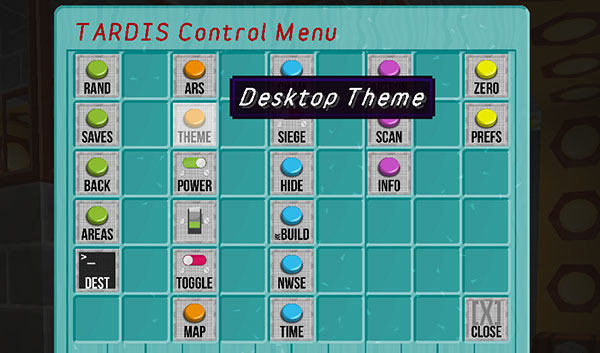
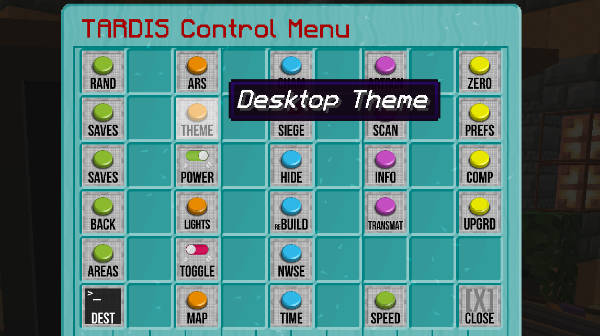
Previews - resource packs and desktop themes

diff --git a/sidebars.ts b/sidebars.ts
@@ -535,6 +535,7 @@ const sidebars: SidebarsConfig = {
         'rooms-and-economies',
         'time-vortex',
         'wiki-sign',
+        'debug-preview',
         'prune',
         'api',
         'update-blocks',

diff --git a/docs/debug-preview.md b/docs/debug-preview.md
@@ -1,0 +1,54 @@
+---
+layout: default
+title: Resource pack debug preview
+---
+
+# Resource pack debug preview
+
+The plugin adds many custom items, blocks, mobs and GUIs to the game. In order to view them in all their awesomeness it is recommended that the the [TARDIS Resource Pack](resource-packs) is used.
+
+The supplied resource pack is not to everyone's taste, so TARDIS community members create or modify it as they see fit.
+
+To aid in the process of creating new textures, the plugin has an area that displays all the TARDIS items in game.
+
+![Preview area](/images/docs/debug_preview.jpg)
+
+## Creating the preview area
+
+To create the preview area, use the command:
+
+```
+/tardisdev debug create
+```
+
+:::info
+
+The plugin must be using the default TARDIS world (TARDIS\_TimeVortex) for the command to have any effect.
+
+Players must also have the `tardis.admin` permission.
+
+:::
+
+## Visiting the preview area
+
+To enter the preview area, use the command:
+
+```
+/tardisdev debug enter
+```
+
+To exit, type _done_ in chat, or use the command:
+
+```
+/tardisdev debug exit
+```
+
+## Updating the preview
+
+If the plugin or a server admin has added new or custom items to the plugin, the preview area can be refreshed by using the command:
+
+```
+/tardisdev debug update
+```
+
+![Resource pack preview](/images/docs/resource_pack_preview.jpg)

diff --git a/docs/site-map.md b/docs/site-map.md
@@ -108,6 +108,7 @@ import TabItem from '@theme/TabItem';
 [Dalek Sec](modules/weeping-angels#dalek-sec "Dalek Sec")  
 [Davros](modules/weeping-angels#davros "Davros")  
 [Desktop Theme](desktop-theme "Desktop Theme")  
+[Desktop Previews](desktop-theme#desktop-previews "Desktop Previews")  
 [Destination Terminal](destination-terminal "Destination Terminal")  
 [Dev commands](commands/dev "Dev commands")  
 [Difficulty](faqs#difficulty "Difficulty")  
@@ -245,6 +246,7 @@ import TabItem from '@theme/TabItem';
 [Recipes](recipes "Recipes")  
 [Regeneration](modules/regeneration "Regeneration")  
 [Relativity Differentiator](flying#how-to-fly "Relativity Differentiator")  
+[Resource Pack Debug Preview](debug-preview "Resource Pack Debug Preview")  
 [Resource Packs](resource-packs "Resource Packs")  
 [Remote commands](commands/remote "Remote commands")  
 [Removing a TARDIS](removing-a-tardis "Removing a TARDIS")  

diff --git a/docs/resource-packs.md b/docs/resource-packs.md
@@ -7,6 +7,12 @@ title: Resource Packs
 
 The resource packs for the TARDIS plugin give the TARDIS items, GUIs and chameleon presets a Whovian look. Most items are _NOT built for the vanilla art style_ and are designed to match the plugin author's [own resource pack](https://github.com/eccentricdevotion/Bromley-Massive-Vector), so may not be to everyone's taste. Feel free to make your own textures and models to suit your own style of gameplay - “[A more ‘Vanilla’ experience](#a-more-vanilla-experience)” below.
 
+:::tip
+
+If you have modified or are creating your own TARDIS resource pack, you can use the [resource pack preview area](debug-preview) to debug your textures and models.
+
+:::
+
 ## Textures and sounds
 
 Use the TARDIS-Resource-Pack found here:
